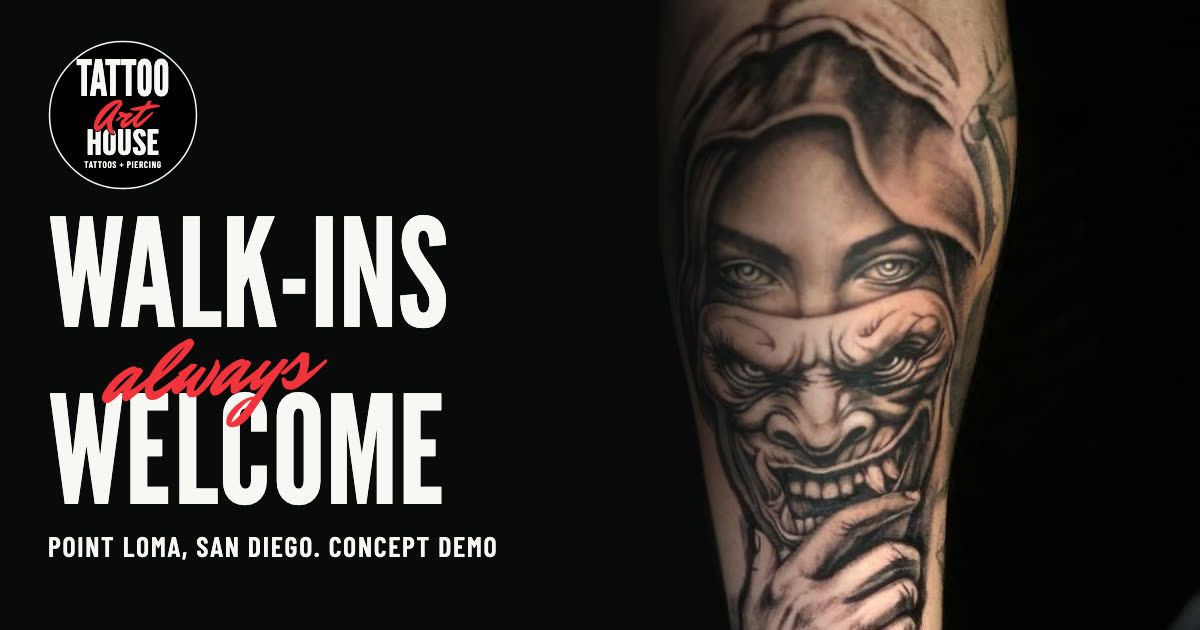
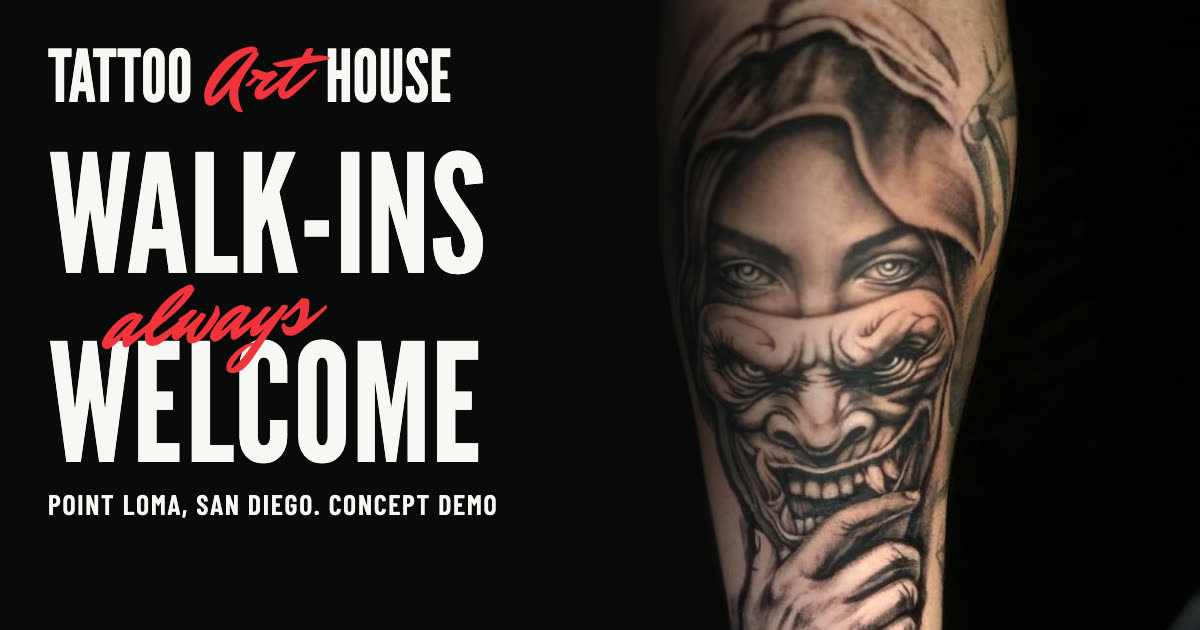
Update concept demo

Changed region(s): [[0.0308, 0.0603, 0.4317, 0.8143], [0.0308, 0.8444, 0.4317, 0.9048]]

diff --git a/index.html b/index.html
@@ -60,9 +60,8 @@ section{scroll-margin-top:var(--ribbon-h)}
 .hero-photo img{width:100%;height:100%;object-fit:cover;object-position:50% 12%}
 .hero-photo::after{content:"";position:absolute;inset:0;background:linear-gradient(90deg,var(--black) 0,rgba(10,10,11,0) 34%),linear-gradient(0deg,var(--black) 2%,rgba(10,10,11,.55) 26%,rgba(10,10,11,0) 52%)}
 .hero-top{position:absolute;top:12px;left:var(--gutter);display:flex;flex-direction:column;gap:8px;align-items:flex-start}
-.logo{display:block;width:124px;height:124px}
-.logo-wrap{position:relative;display:block;width:124px;flex:none;margin-bottom:10px}
-.logo-tag{position:absolute;left:50%;bottom:-7px;transform:translateX(-50%);font-size:10px}
+.wordmark{margin:0;display:flex;align-items:center;gap:7px;font:400 clamp(34px,10vw,44px)/1 "League Gothic","Arial Narrow",sans-serif;letter-spacing:.015em;text-transform:uppercase;color:#F7F7F5}
+.wordmark em{font:400 1.08em/.8 "Mr Dafoe","Brush Script MT",cursive;color:#F2333C;text-transform:none;letter-spacing:0;transform:rotate(-5deg) translateY(-1px);padding-right:.1em}
 .where{font:600 16px/1.1 var(--label);letter-spacing:.06em;text-transform:uppercase}
 .where i{font-style:normal;color:var(--red-text)}
 h1{font:400 min(30.5vw,17.5vh)/.86 var(--poster);text-transform:uppercase;letter-spacing:.002em}
@@ -234,7 +233,7 @@ dialog::backdrop{background:#000}
 /* narrow phones */
 @media (max-width:359px){
   :root{--gutter:14px}
-  .logo{width:92px;height:92px}
+  .wordmark{font-size:32px}
   .sub{font-size:15.5px}
   .btn{font-size:17px;padding:6px 8px}
   .facts li{font-size:27px}
@@ -255,7 +254,7 @@ dialog::backdrop{background:#000}
   .hero-photo img{object-position:50% 18%}
   .hero-photo::after{background:linear-gradient(90deg,var(--black) 0,rgba(10,10,11,0) 30%),linear-gradient(0deg,var(--black) 0,rgba(10,10,11,0) 18%)}
   .hero-top{position:static;flex-direction:row;align-items:center;gap:18px}
-  .logo{width:148px;height:148px}
+  .wordmark{font-size:50px}
   .where{font-size:20px}
   h1{font-size:min(14.2vw,25vh);max-width:58%}
   .sub{font-size:20px;max-width:26em}
@@ -309,13 +308,7 @@ dialog::backdrop{background:#000}
 <header class="hero" id="top">
[1 lines of base64/hex data omitted]
   <div class="hero-top">
-    <span class="logo-wrap"><svg class="logo" viewBox="0 0 200 200" role="img" aria-label="Tattoo Art House logo">
-      <circle cx="100" cy="100" r="98" fill="#000" stroke="#F7F7F5" stroke-width="2"/>
-      <text x="100" y="74" text-anchor="middle" fill="#F7F7F5" font-family="League Gothic,Arial Narrow,sans-serif" font-size="66" textLength="124" lengthAdjust="spacingAndGlyphs">TATTOO</text>
-      <text x="100" y="153" text-anchor="middle" fill="#F7F7F5" font-family="League Gothic,Arial Narrow,sans-serif" font-size="46" textLength="98" lengthAdjust="spacingAndGlyphs">HOUSE</text>
-      <text x="97" y="116" text-anchor="middle" fill="#F2333C" stroke="#000" stroke-width="3" paint-order="stroke" font-family="Mr Dafoe,Brush Script MT,cursive" font-size="56" transform="rotate(-5 100 108)">Art</text>
-      <text x="100" y="171" text-anchor="middle" fill="#F7F7F5" font-family="Barlow Condensed,Arial Narrow,sans-serif" font-weight="600" font-size="12.5" letter-spacing=".8">TATTOOS + PIERCING</text>
-    </svg><span class="tc logo-tag">Logo stand-in</span></span>
+    <p class="wordmark"><span>Tattoo</span><em>Art</em><span>House</span></p>
     <p class="where">Point Loma <i>/</i> San Diego</p>
   </div>
   <h1><span>Walk-ins</span><em>always</em><span>welcome</span></h1>
@@ -566,7 +559,7 @@ dialog::backdrop{background:#000}
     <div>
       <ul class="notes">
         <li>Confirm 831-224-0759 is the one number customers should call</li>
-        <li>Send the real logo file. The one on this page is a stand-in, redrawn to show the idea</li>
+        <li>Send the real logo file. The name is set in plain type here until then</li>
         <li>Say who's on the roster now, with a portrait, bio and handle for each artist, and how Mike's name should read</li>
         <li>Check the services list, and send the piercing menu and photos</li>
         <li>Send storefront and inside photos, plus the samurai back piece and other favorites</li>
